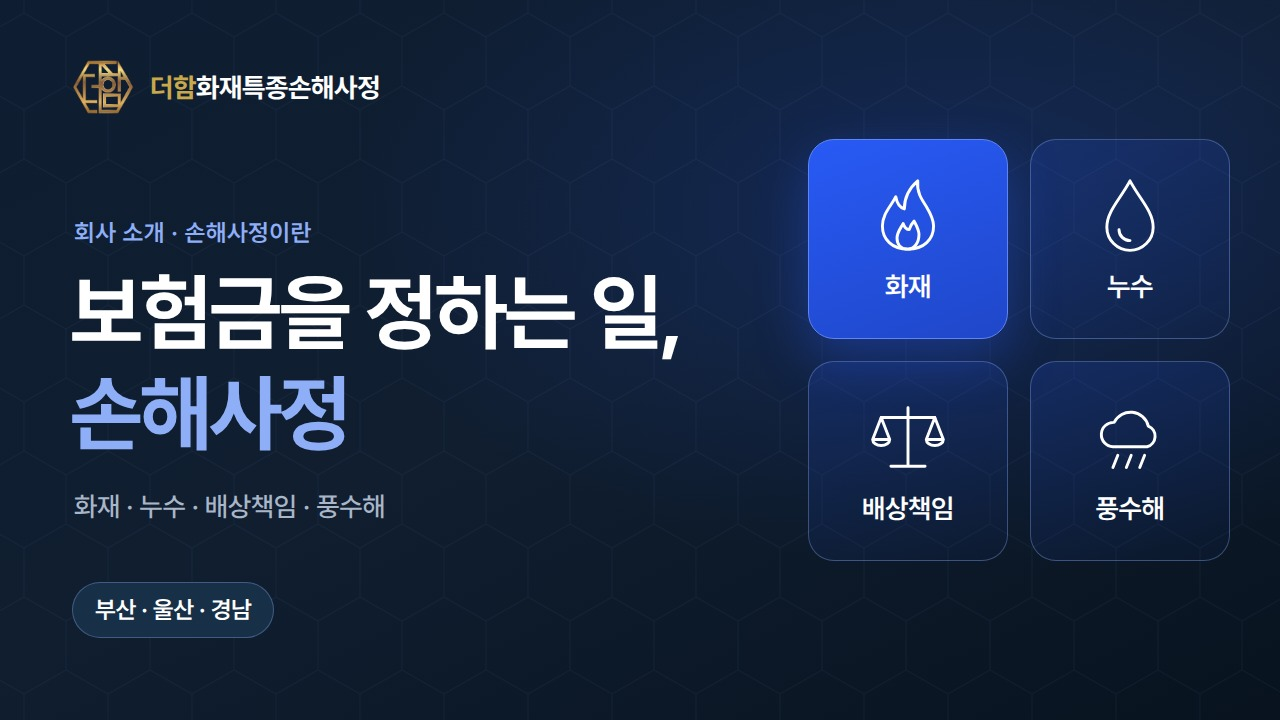
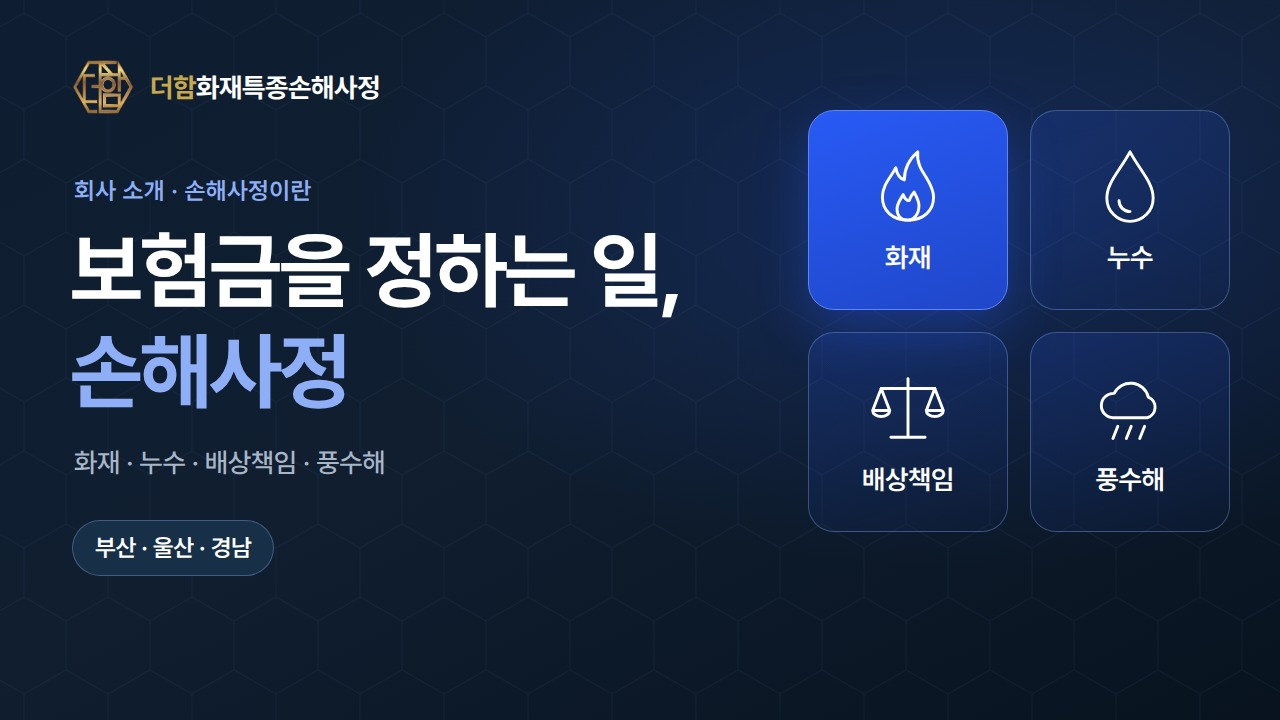
가로 썸네일: 재생 전 컨트롤 바에 가리지 않도록 문구·태그를 위로 올림
Claude-Session: https://claude.ai/code/session_01MtsoGNAMaCtJJ7TeksixkL

diff --git a/promo-video/thumbs/index.html b/promo-video/thumbs/index.html
@@ -82,11 +82,11 @@ svg { overflow: visible; }
 <div class="board" id="company">
   <div class="hex"></div>
   <div class="abs brand" style="left:72px; top:60px"><img src="../common/logo-gold.png" alt=""><span><b>더함</b>화재특종손해사정</span></div>
-  <div class="abs eb" style="left:74px; top:218px">회사 소개 · 손해사정이란</div>
-  <div class="abs hl" style="left:70px; top:262px">보험금을 정하는 일,<br><em>손해사정</em></div>
-  <div class="abs sub" style="left:74px; top:490px">화재 · 누수 · 배상책임 · 풍수해</div>
-  <div class="abs" style="left:72px; top:582px"><span class="tag nv">부산 · 울산 · 경남</span></div>
-  <div class="abs tiles" style="left:808px; top:139px">
+  <div class="abs eb" style="left:74px; top:176px">회사 소개 · 손해사정이란</div>
+  <div class="abs hl" style="left:70px; top:220px">보험금을 정하는 일,<br><em>손해사정</em></div>
+  <div class="abs sub" style="left:74px; top:446px">화재 · 누수 · 배상책임 · 풍수해</div>
+  <div class="abs" style="left:72px; top:520px"><span class="tag nv">부산 · 울산 · 경남</span></div>
+  <div class="abs tiles" style="left:808px; top:110px">
     <div class="tile on"><svg class="ln" viewBox="0 0 64 64"><path d="M32 60C19 60 11 52 11 41C11 31 18 25 22 17C23 23 26 26 29 27C29 18 33 10 40 4C39 13 43 19 47 25C50 30 53 35 53 41C53 52 45 60 32 60Z"/><path d="M32 60C26 60 23 56 23 51C23 46 26 43 28 39C29 42 31 44 33 44C34 41 35 39 37 37C39 41 41 44 41 48C41 55 37 60 32 60Z"/></svg><div>화재</div></div>
     <div class="tile"><svg class="ln" viewBox="0 0 64 64"><path d="M32 4C24 19 13 29 13 42A19 19 0 0 0 51 42C51 29 40 19 32 4Z"/><path d="M23 44A9 9 0 0 0 32 53"/></svg><div>누수</div></div>
     <div class="tile"><svg class="ln" viewBox="0 0 64 64"><path d="M32 8V56M18 56H46M10 16H54"/><path d="M10 16L3 34H17ZM54 16L47 34H61ZM3 34A7 5 0 0 0 17 34M47 34A7 5 0 0 0 61 34"/></svg><div>배상책임</div></div>
@@ -97,10 +97,10 @@ svg { overflow: visible; }
 <!-- ============ fire 1280×720 ============ -->
 <div class="board fire" id="fire">
   <div class="abs brand" style="left:72px; top:60px"><img src="../common/logo-gold.png" alt=""><span><b>더함</b>화재특종손해사정</span></div>
-  <div class="abs eb" style="left:74px; top:218px">화재 손해사정</div>
-  <div class="abs hl" style="left:70px; top:262px">화재 손해,<br><em>빠진 항목</em>은<br>없나요?</div>
-  <div class="abs" style="left:72px; top:600px"><span class="tag">손해사정사 상담 <small>유승민 대표</small></span></div>
-  <svg class="abs bldg" style="left:700px; top:150px" width="520" height="470" viewBox="0 0 520 470">
+  <div class="abs eb" style="left:74px; top:170px">화재 손해사정</div>
+  <div class="abs hl" style="left:70px; top:212px; font-size:78px">화재 손해,<br><em>빠진 항목</em>은<br>없나요?</div>
+  <div class="abs" style="left:72px; top:520px"><span class="tag">손해사정사 상담 <small>유승민 대표</small></span></div>
+  <svg class="abs bldg" style="left:700px; top:110px" width="520" height="470" viewBox="0 0 520 470">
     <path class="w" d="M20 450H500M60 450V170L260 40L460 170V450"/>
     <path class="w" d="M60 300H460M60 170H460"/>
     <path class="s" d="M100 300V450M420 300V450M160 170V300M360 170V300"/>
@@ -110,19 +110,19 @@ svg { overflow: visible; }
     <path class="h" d="M232 206C236 186 250 180 252 166C262 178 266 188 262 204M270 206C272 196 280 190 282 182C288 192 290 198 288 206"/>
     <path class="h" d="M258 336C262 314 278 306 282 290C294 304 298 318 292 334M300 336C304 324 312 318 314 308C322 320 324 328 320 336"/>
   </svg>
-  <div class="chip" style="left:708px; top:120px"><i></i>건물 · 내외장</div>
-  <div class="chip" style="left:1030px; top:252px"><i></i>전기 · 설비</div>
-  <div class="chip" style="left:682px; top:405px"><i></i>집기 · 재고자산</div>
-  <div class="chip" style="left:1046px; top:520px"><i></i>그을음 · 소화수</div>
+  <div class="chip" style="left:708px; top:80px"><i></i>건물 · 내외장</div>
+  <div class="chip" style="left:1030px; top:212px"><i></i>전기 · 설비</div>
+  <div class="chip" style="left:682px; top:365px"><i></i>집기 · 재고자산</div>
+  <div class="chip" style="left:1046px; top:480px"><i></i>그을음 · 소화수</div>
 </div>
 
 <!-- ============ leak 1280×720 ============ -->
 <div class="board leak" id="leak">
   <div class="abs brand" style="left:72px; top:60px"><img src="../common/logo-gold.png" alt=""><span><b>더함</b>화재특종손해사정</span></div>
-  <div class="abs eb" style="left:74px; top:218px">누수 사고 · 손해사정사 선임권</div>
-  <div class="abs hl" style="left:70px; top:258px; font-size:76px">누수 사고,<br><em>조사 전</em>에<br>확인하세요</div>
-  <div class="abs" style="left:72px; top:618px"><span class="tag">손해사정 선임권 상담 <small>이도경 이사</small></span></div>
-  <svg class="abs apt" style="left:720px; top:110px" width="500" height="520" viewBox="0 0 500 520">
+  <div class="abs eb" style="left:74px; top:170px">누수 사고 · 손해사정사 선임권</div>
+  <div class="abs hl" style="left:70px; top:210px; font-size:76px">누수 사고,<br><em>조사 전</em>에<br>확인하세요</div>
+  <div class="abs" style="left:72px; top:560px"><span class="tag">손해사정 선임권 상담 <small>이도경 이사</small></span></div>
+  <svg class="abs apt" style="left:720px; top:70px" width="500" height="520" viewBox="0 0 500 520">
     <text x="24" y="46">UPPER UNIT</text>
     <path class="w" d="M10 10H490V30H10ZM10 250H490V284H10ZM10 490H490V512H10Z"/>
     <path class="w" d="M10 30V250M490 30V250M10 284V490M490 284V490"/>
@@ -137,7 +137,7 @@ svg { overflow: visible; }
     <ellipse class="stain" cx="250" cy="488" rx="90" ry="7"/>
     <ellipse class="ring" cx="250" cy="488" rx="130" ry="11"/><ellipse class="ring" cx="250" cy="488" rx="175" ry="15" style="opacity:0.5"/>
   </svg>
-  <div class="abs law" style="left:74px; top:560px"><i></i>보험업법 제185조 · 2024년 8월 시행</div>
+  <div class="abs law" style="left:74px; top:505px"><i></i>보험업법 제185조 · 2024년 8월 시행</div>
 </div>
 
 <!-- ============ vertical covers 1080×1920 ============ -->
